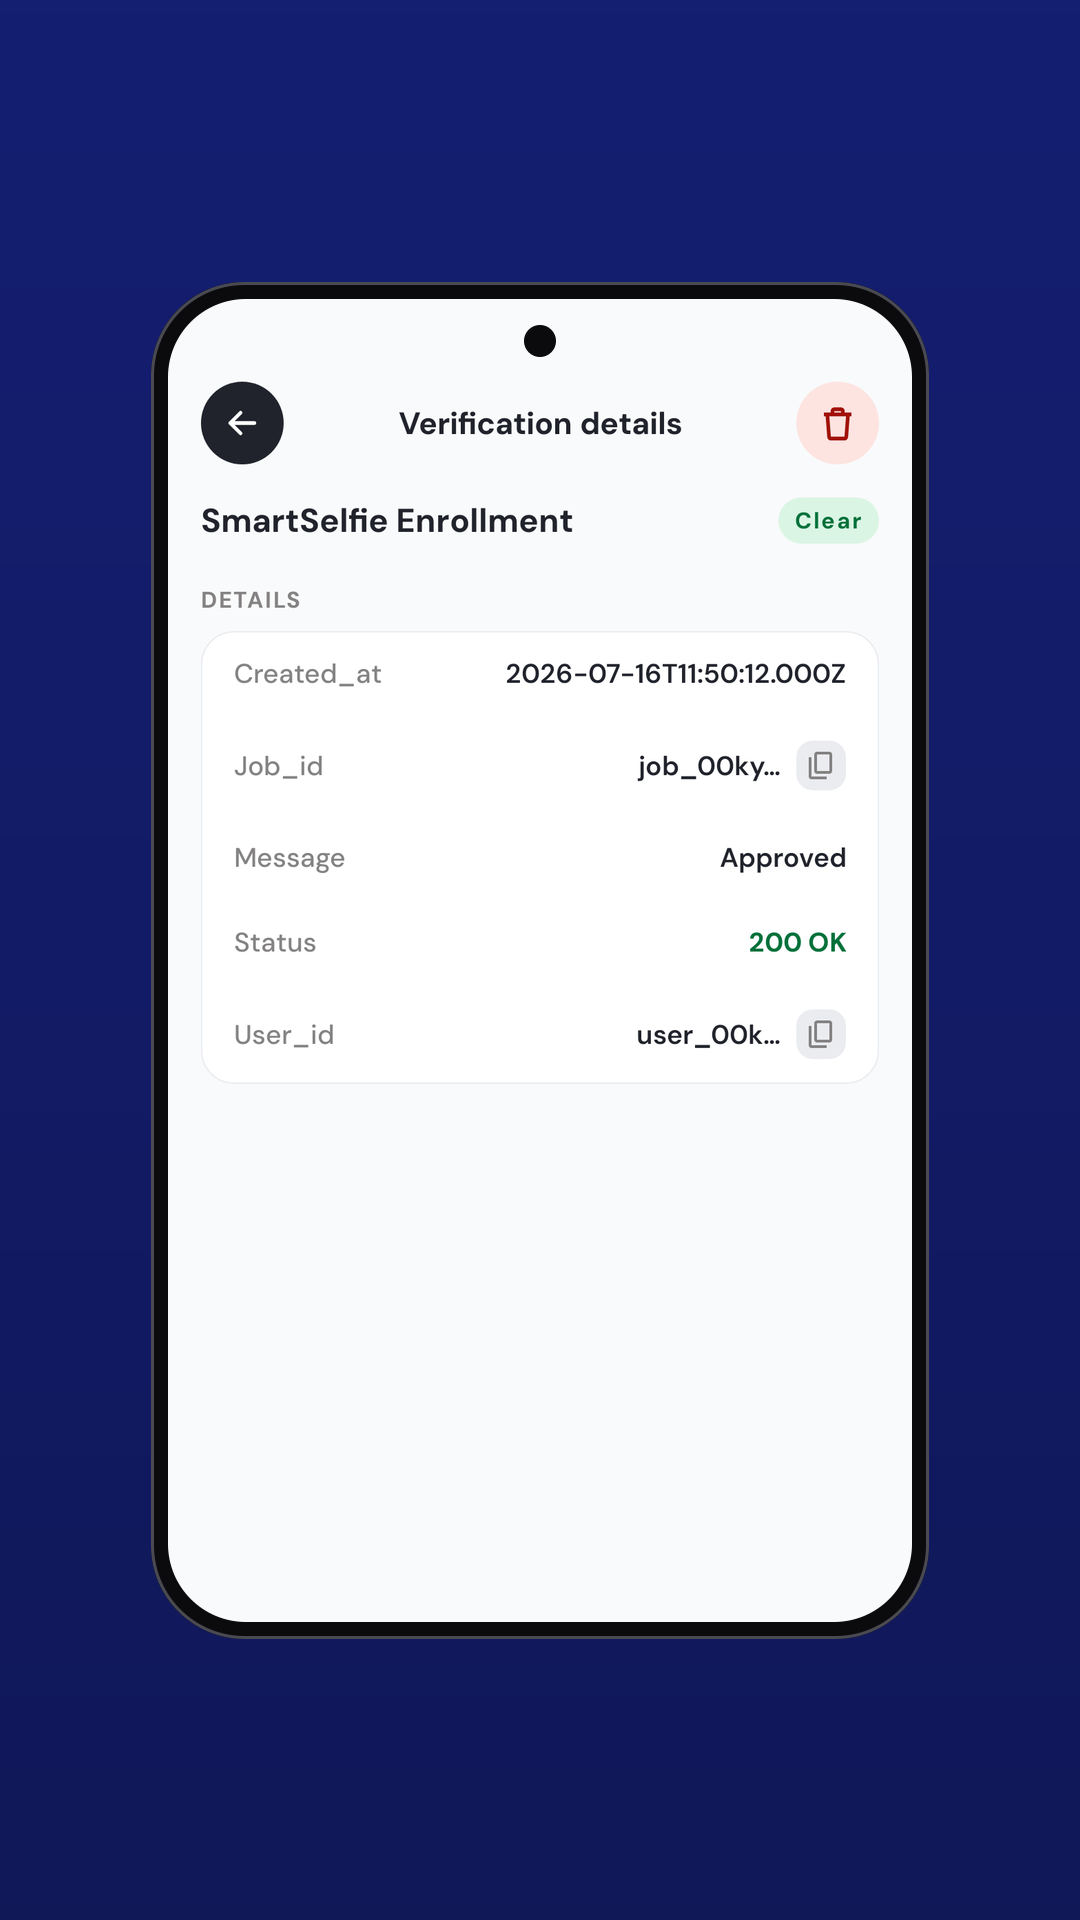
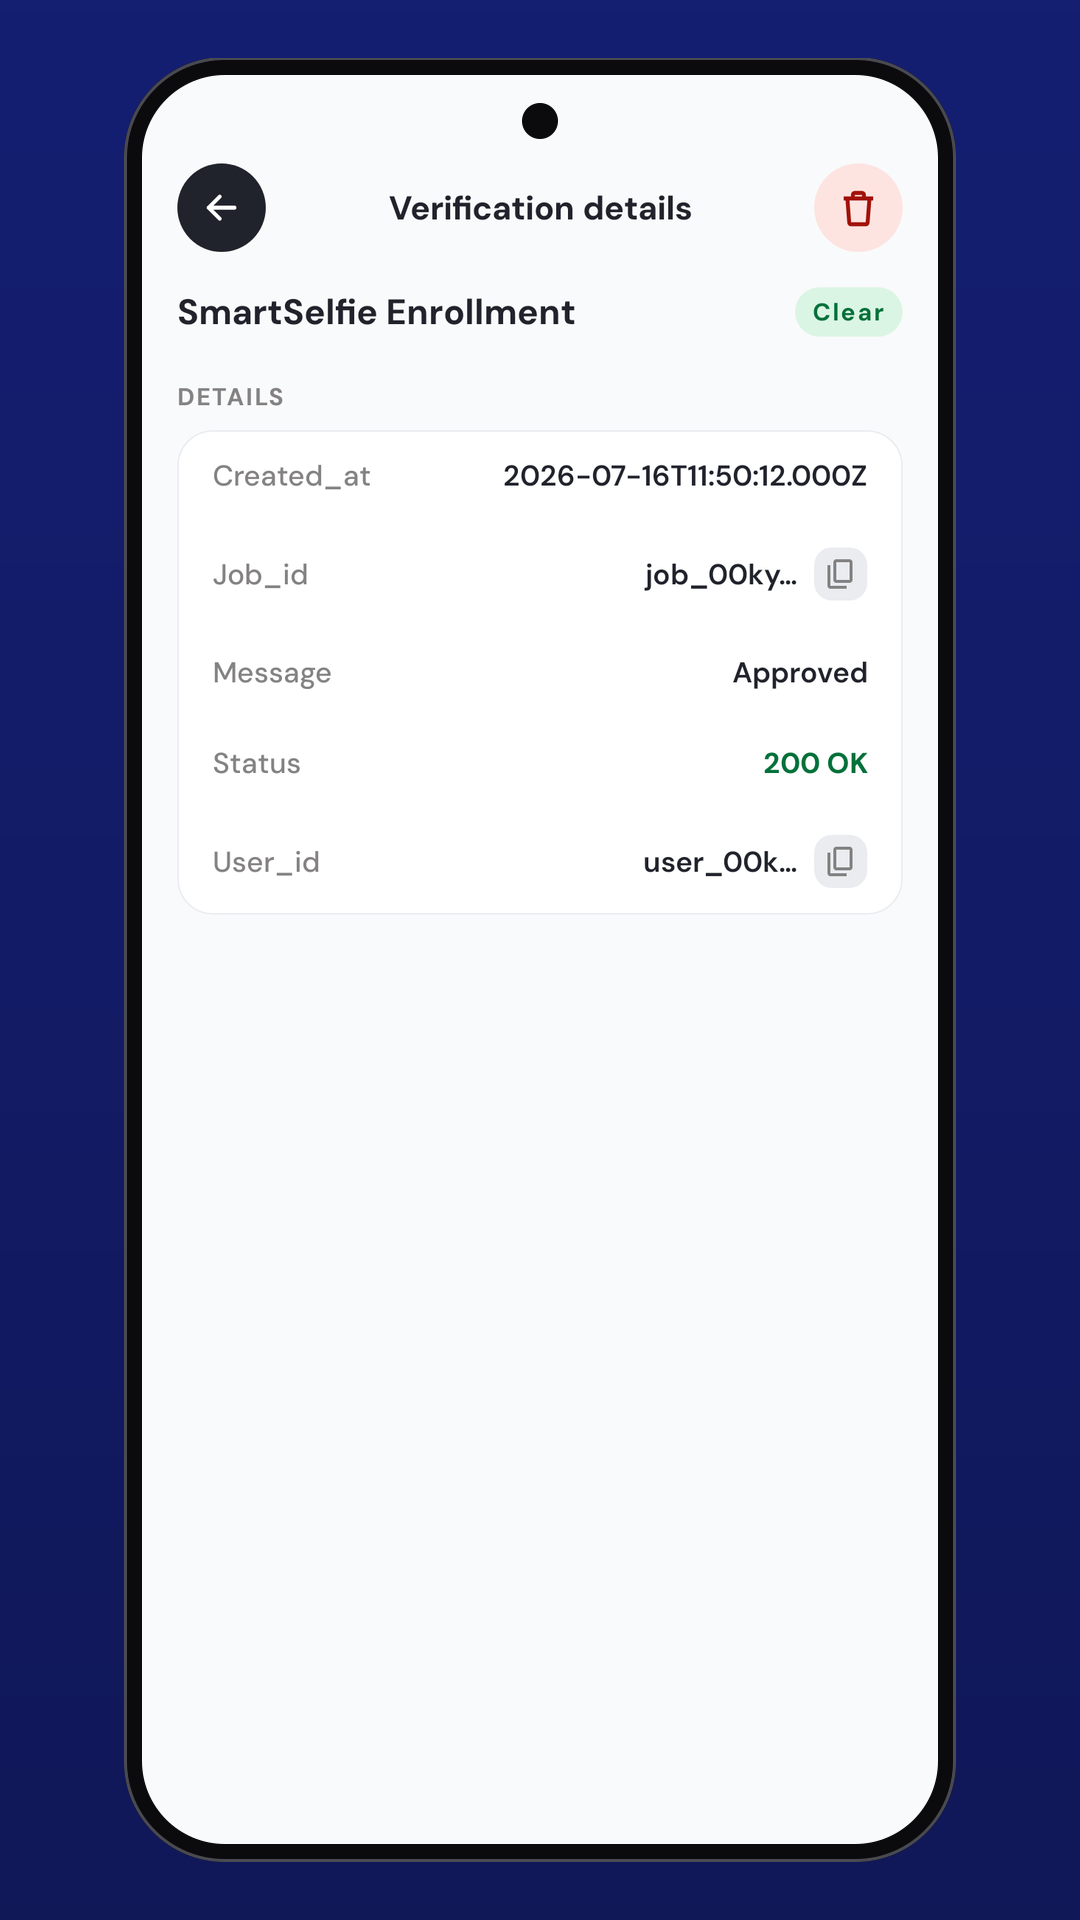
🎨 store art: fill each wordless panel with a 20:9 phone (#106)
* fix: size the store-panel device to fill the wordless panel and keep the capture's aspect

* fix: record the Play store-art frames on a 20:9 phone

* fix: guard the store-art inputs and trim the composer comments

* docs: trim the store-art notes in both release plans

* docs: record where the taller panels go once the stores decide

* docs: point the taller-panel note at the rendering section

diff --git a/android/sample-ui/src/test/kotlin/com/usesmileid/sampleapps/ui/storeart/StoreArtTest.kt b/android/sample-ui/src/test/kotlin/com/usesmileid/sampleapps/ui/storeart/StoreArtTest.kt
@@ -134,4 +134,4 @@ class StoreArtTest {
     }
 }
 
-internal const val STORE_PHONE_QUALIFIERS = "w360dp-h640dp-xxhdpi"
+internal const val STORE_PHONE_QUALIFIERS = "w360dp-h800dp-xxhdpi"

diff --git a/docs/plan/play-release-android.md b/docs/plan/play-release-android.md
@@ -199,13 +199,19 @@ background, gradient and frame with the whole device centred, composed by `scrip
 because storeshots refuses an empty headline, then validated by storeshots as before. The listing copy
 carries the words, so the two rules above now govern that copy rather than the art.
 
+**The phone got taller on 2026-09-18.** The frames were recorded at `w360dp-h640dp`, a 16:9 device that
+cut the products grid at its third row; `StoreArtTest` now records at `w360dp-h800dp` (1080×2400, 20:9).
+And storeshots shapes the drawn screen like the canvas — 16:9 here — and sizes it for a headline; the
+composer now keeps the capture's aspect and fills the panel (90% of the width or a 3% vertical margin),
+on both stores.
+
 ### 2.7 What building the pipeline changed
 
 Three corrections, all found by running it rather than by reading:
 
 - **Gradle Managed Devices cannot host the camera capture.** GMD starts and stops its emulator around a
   Gradle *test task*, and Maestro is not one, so a GMD block would declare an image nothing uses. The
-  image is pinned in the flow's header instead — a Pixel-class AVD on API 34, at 1080x1920 so the frame
+  image is pinned in the flow's header instead — a Pixel-class AVD on API 34, at 1080x2400 so the frame
   needs no rescaling next to the five rendered panels.
 - **The capture flow lives in `android/maestro/store/`, not beside the suite.** Folder runs are
   non-recursive, which is how `subflows/` stays out of the suite; a top-level `store-shots.yaml` would
@@ -601,6 +607,9 @@ None of these blocks anything, and none of them belongs to Android's critical pa
   `seedProfiles` launch argument mirroring `seedJobs`, and a unit test holds both the default and the
   launch choice. REL-A10 audited what the flows *seed* and what the frames *show*; the profile store's
   constructor default was neither, which is how it passed — see §8.
+- **The taller panels owe a Console upload.** `android/play/screenshots/` (five panels) and
+  `android/play/feature-graphic.png` were re-rendered on 2026-09-18 from 20:9 frames (§2.6); the live
+  listing still serves the 16:9 set until the owner replaces those six files by hand.
 - **The camera panel (REL-A9)** needs a device. The flow and its output path are written; five panels
   are published and the sixth drops in without rework.
 - **The `verification_details` panel is the weak one.** Hiding the debug result card left that screen

diff --git a/docs/plan/app-store-release-ios.md b/docs/plan/app-store-release-ios.md
@@ -172,7 +172,9 @@ over all five.
 - **One layout variant for the whole set.** Every panel is `text-top`, so the device sits at the same
   height throughout. Variety comes from the headlines and the screens. *Since 2026-09-14 there is no
   headline: the panels are the screen alone, whole device centred, on both platforms — see the Android
-  plan's §2.6 for the ruling and `scripts/compose-store-panel.mjs` for how.*
+  plan's §2.6 for the ruling and `scripts/compose-store-panel.mjs` for how. Since 2026-09-18 the device
+  fills the panel — 90% of the width or a 3% vertical margin, whichever binds — because storeshots' 78%
+  was sized to sit under a headline.*
 - **No headline states a count**, and the nouns come from `docs-v3` — *verification result*, and its
   *status* and *message*, which are also the words on the app's own status pills. *The rule now
   governs the listing copy, the panels having no words.*
@@ -563,6 +565,12 @@ release lane's assertions all pass `-o -`, with a comment saying why.
   on every device. The answer now ships in `review-notes.txt`, so the question should not recur here or
   in the Flutter and Expo ports. The published App Privacy form already declares Sensitive Info on the
   reasoning that the selfie is biometric, which is the cross-check a reviewer makes.
+- **The taller panels are in the repository; App Store Connect gets them on the review decision.** The
+  five wordless panels in `ios/store/screenshots/` were re-rendered on 2026-09-18 with the device filling
+  the panel (§2.5), while version 20260913.1211.103 sat in the review queue, where its screenshots are
+  locked. Rejected → the version is editable again: `scripts/asc_publish.py apply --build 103` carries them,
+  then `submit`. Approved → they ride the next version's `apply`. Either way nothing is re-rendered; the
+  files are final.
 - **The camera panel** needs a device, exactly as Android's REL-A9 does. The composer already has its
   slot; five panels are rendered and Apple requires one, so it blocks nothing.
 - **The `verification_details` panel is the weak one**, and it is weak for precisely the reason Android
